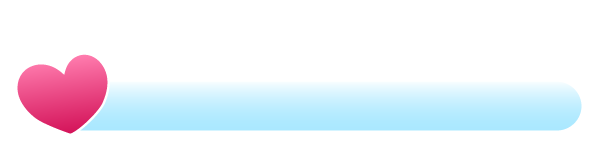
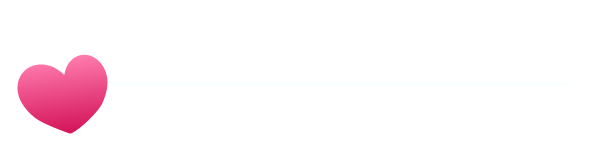
bonus-healthbar added

Changed region(s): [[0.121, 0.557, 0.9983, 0.8354]]

diff --git a/models/world.class.js b/models/world.class.js
@@ -4,6 +4,7 @@ class World {
     healthbar = new Healthbar();
     coinbar = new Coinbar();
     poisonbar = new Poisonbar();
+    bonushealthbar = new BonusHealthbar();
     throwableObjects = [];
     level = level1;
     canvas;
@@ -12,6 +13,7 @@ class World {
     camera_x = 0;
     collectedCoins = 0;
     collectedBottles = 0;
+    energy = 100;
 
     constructor(canvas, keyboard) {
         this.ctx = canvas.getContext('2d');
@@ -43,10 +45,11 @@ class World {
     checkCollisions() {
 
         this.characterIsCollidingJellyfish();
-        this.characterIsCollidingPufferfish();
-        this.characterIsCollidingEndboss();
+        //this.characterIsCollidingPufferfish();
+        //this.characterIsCollidingEndboss();
         this.characterIsCollidingCoin();
         this.characterIsCollidingPoisonBottle();
+        this.characterIsCollidingLife();
     }
 
     draw() {
@@ -81,12 +84,16 @@ class World {
         this.addObjectsToMap(this.level.endboss);
         this.addObjectsToMap(this.level.coins);
         this.addObjectsToMap(this.level.poisonbottles);
+        this.addObjectsToMap(this.level.lifes);
     }
 
     drawStatusbars() {
         this.addToMap(this.healthbar);
         this.addToMap(this.coinbar);
         this.addToMap(this.poisonbar);
+        if(this.character.energy > 100){
+        this.addToMap(this.bonushealthbar);
+        }
     }
 
     addToMap(mo) {
@@ -122,9 +129,13 @@ class World {
     characterIsCollidingJellyfish() {
         this.level.jellyfishes.forEach((jellyfish) => {
             if (this.character.isColliding(jellyfish)) {
-
                 this.character.hit();
-                this.healthbar.setPercentage(this.character.energy)
+                if(this.character.energy > 100){
+                    this.bonushealthbar.setPercentage(this.character.energy);
+                }else{
+                    this.healthbar.setPercentage(this.character.energy);
+                }
+                
                 console.log('colliding Jellyfish', this.character.energy);
             };
 
@@ -171,6 +182,17 @@ class World {
                 this.level.poisonbottles.splice(index, 1);
                 this.poisonbar.setCollectedBottles(this.collectedBottles)
                 console.log('colliding with Bottle');
+            }
+        })
+    }
+
+    characterIsCollidingLife(){
+        this.level.lifes.forEach((life, index) => {
+            if (this.character.isColliding(life)) {
+                this.character.energy += 20;
+                this.level.lifes.splice(index, 1);
+                this.bonushealthbar.setPercentage(this.character.energy)
+                console.log('colliding with Life',this.character.energy);
             }
         })
     }

diff --git a/models/bonus-healthbar.class.js b/models/bonus-healthbar.class.js
@@ -1,0 +1,48 @@
+class BonusHealthbar extends DrawableObject{
+
+
+    IMAGES = [
+        'img/4. Marcadores/green/Life/0_  copia 3.png',
+        'img/4. Marcadores/green/Life/20_ copia 4.png',
+        'img/4. Marcadores/green/Life/40_  copia 3.png',
+        'img/4. Marcadores/green/Life/60_  copia 3.png',
+        'img/4. Marcadores/green/Life/80_  copia 3.png',
+        'img/4. Marcadores/green/Life/100_  copia 2.png',
+    ];
+
+    percentage = 120;
+
+    constructor(){
+        super();
+        this.loadImages(this.IMAGES);
+        this.x = 15;
+        this.y = 0;
+        this.width = 180;
+        this.height = 50;
+        this.setPercentage(120);
+    }
+
+    setPercentage(percentage){
+        this.percentage = percentage;
+        let path = this.IMAGES[this.resolveImageIndex()];
+        this.img = this.imageCache[path]
+
+    }
+
+    resolveImageIndex(){
+        if(this.percentage == 200){
+            return 5
+        }else if(this.percentage >= 180){
+            return 4
+        }else if(this.percentage >= 160){
+            return 3
+        }else if(this.percentage >= 140){
+            return 2
+        }else if(this.percentage >= 120){
+            return 1
+        }else {
+            return 0
+        }
+    }
+
+}

diff --git a/models/life.class.js b/models/life.class.js
@@ -1,0 +1,27 @@
+class Life extends MovableObject{
+    width = 50;
+    height = 50;
+    x = 100;
+    y = 100;
+
+    IMAGES_LIFE = [
+        'img/4. Marcadores/Hearts/green_heart_0.png',
+        'img/4. Marcadores/Hearts/green_heart_1.png',
+        'img/4. Marcadores/Hearts/green_heart_2.png',
+        'img/4. Marcadores/Hearts/green_heart_3.png',
+    ];
+    
+    constructor(x){
+        super().loadImage('img/4. Marcadores/Hearts/green_heart_0.png');
+        this.loadImages(this.IMAGES_LIFE);
+        this.x = x;
+        this.y = Math.random() * 200 + 150;
+        this.animate();
+    }
+
+    animate(){
+        setInterval(() => {
+            this.playAnimation(this.IMAGES_LIFE);
+        }, 110);
+    }
+}

diff --git a/models/level.class.js b/models/level.class.js
@@ -5,16 +5,18 @@ class Level {
     lights;
     coins;
     poisonbottles;
+    lifes;
     backgroundObjects;
     level_end_x = 2000;
 
-    constructor(pufferfishes, jellyfishes, endboss, lights, coins,poisonbottles, backgroundObjects) {
+    constructor(pufferfishes, jellyfishes, endboss, lights, coins,poisonbottles,lifes, backgroundObjects) {
         this.pufferfishes = pufferfishes;
         this.jellyfishes = jellyfishes;
         this.endboss = endboss
         this.lights = lights;
         this.coins = coins;
         this.poisonbottles = poisonbottles;
+        this.lifes = lifes;
         this.backgroundObjects = backgroundObjects;
         
     }

diff --git a/index.html b/index.html
@@ -20,9 +20,11 @@
     <script src="models/light.class.js"></script>
     <script src="models/coin.class.js"></script>
     <script src="models/poisonbottle.class.js"></script>
+    <script src="models/life.class.js"></script>
     <script src="models/background-object.class.js"></script>
     <script src="models/endboss.class.js"></script>
     <script src="models/healthbar.class.js"></script>
+    <script src="models/bonus-healthbar.class.js"></script>
     <script src="models/coinbar.class.js"></script>
     <script src="models/poisonbar.class.js"></script>
     <script src="models/keyboard.class.js"></script>

diff --git a/levels/level1.js b/levels/level1.js
@@ -36,6 +36,13 @@ const level1 = new Level(
         new PoisonBottle(1600),
     ],
     [
+        new Life(300),
+        new Life(600),
+        new Life(900),
+        new Life(1200),
+        new Life(1500),
+    ],
+    [
         new BackgroundObject('img/3. Background/Layers/5. Water/L2.png', -720),
         new BackgroundObject('img/3. Background/Layers/4.Fondo 2/L2.png', -720),
         new BackgroundObject('img/3. Background/Layers/3.Fondo 1/L2.png', -720),

diff --git a/models/healthbar.class.js b/models/healthbar.class.js
@@ -38,9 +38,9 @@ class Healthbar extends DrawableObject{
             return 3
         }else if(this.percentage > 40){
             return 2
-        }else if(this.percentage > 20){
+        }else if(this.percentage >= 20 || this.percentage <= 20 && !this.percentage == 0){
             return 1
-        }else {
+        }else if(this.percentage == 0) {
             return 0
         }
     }
